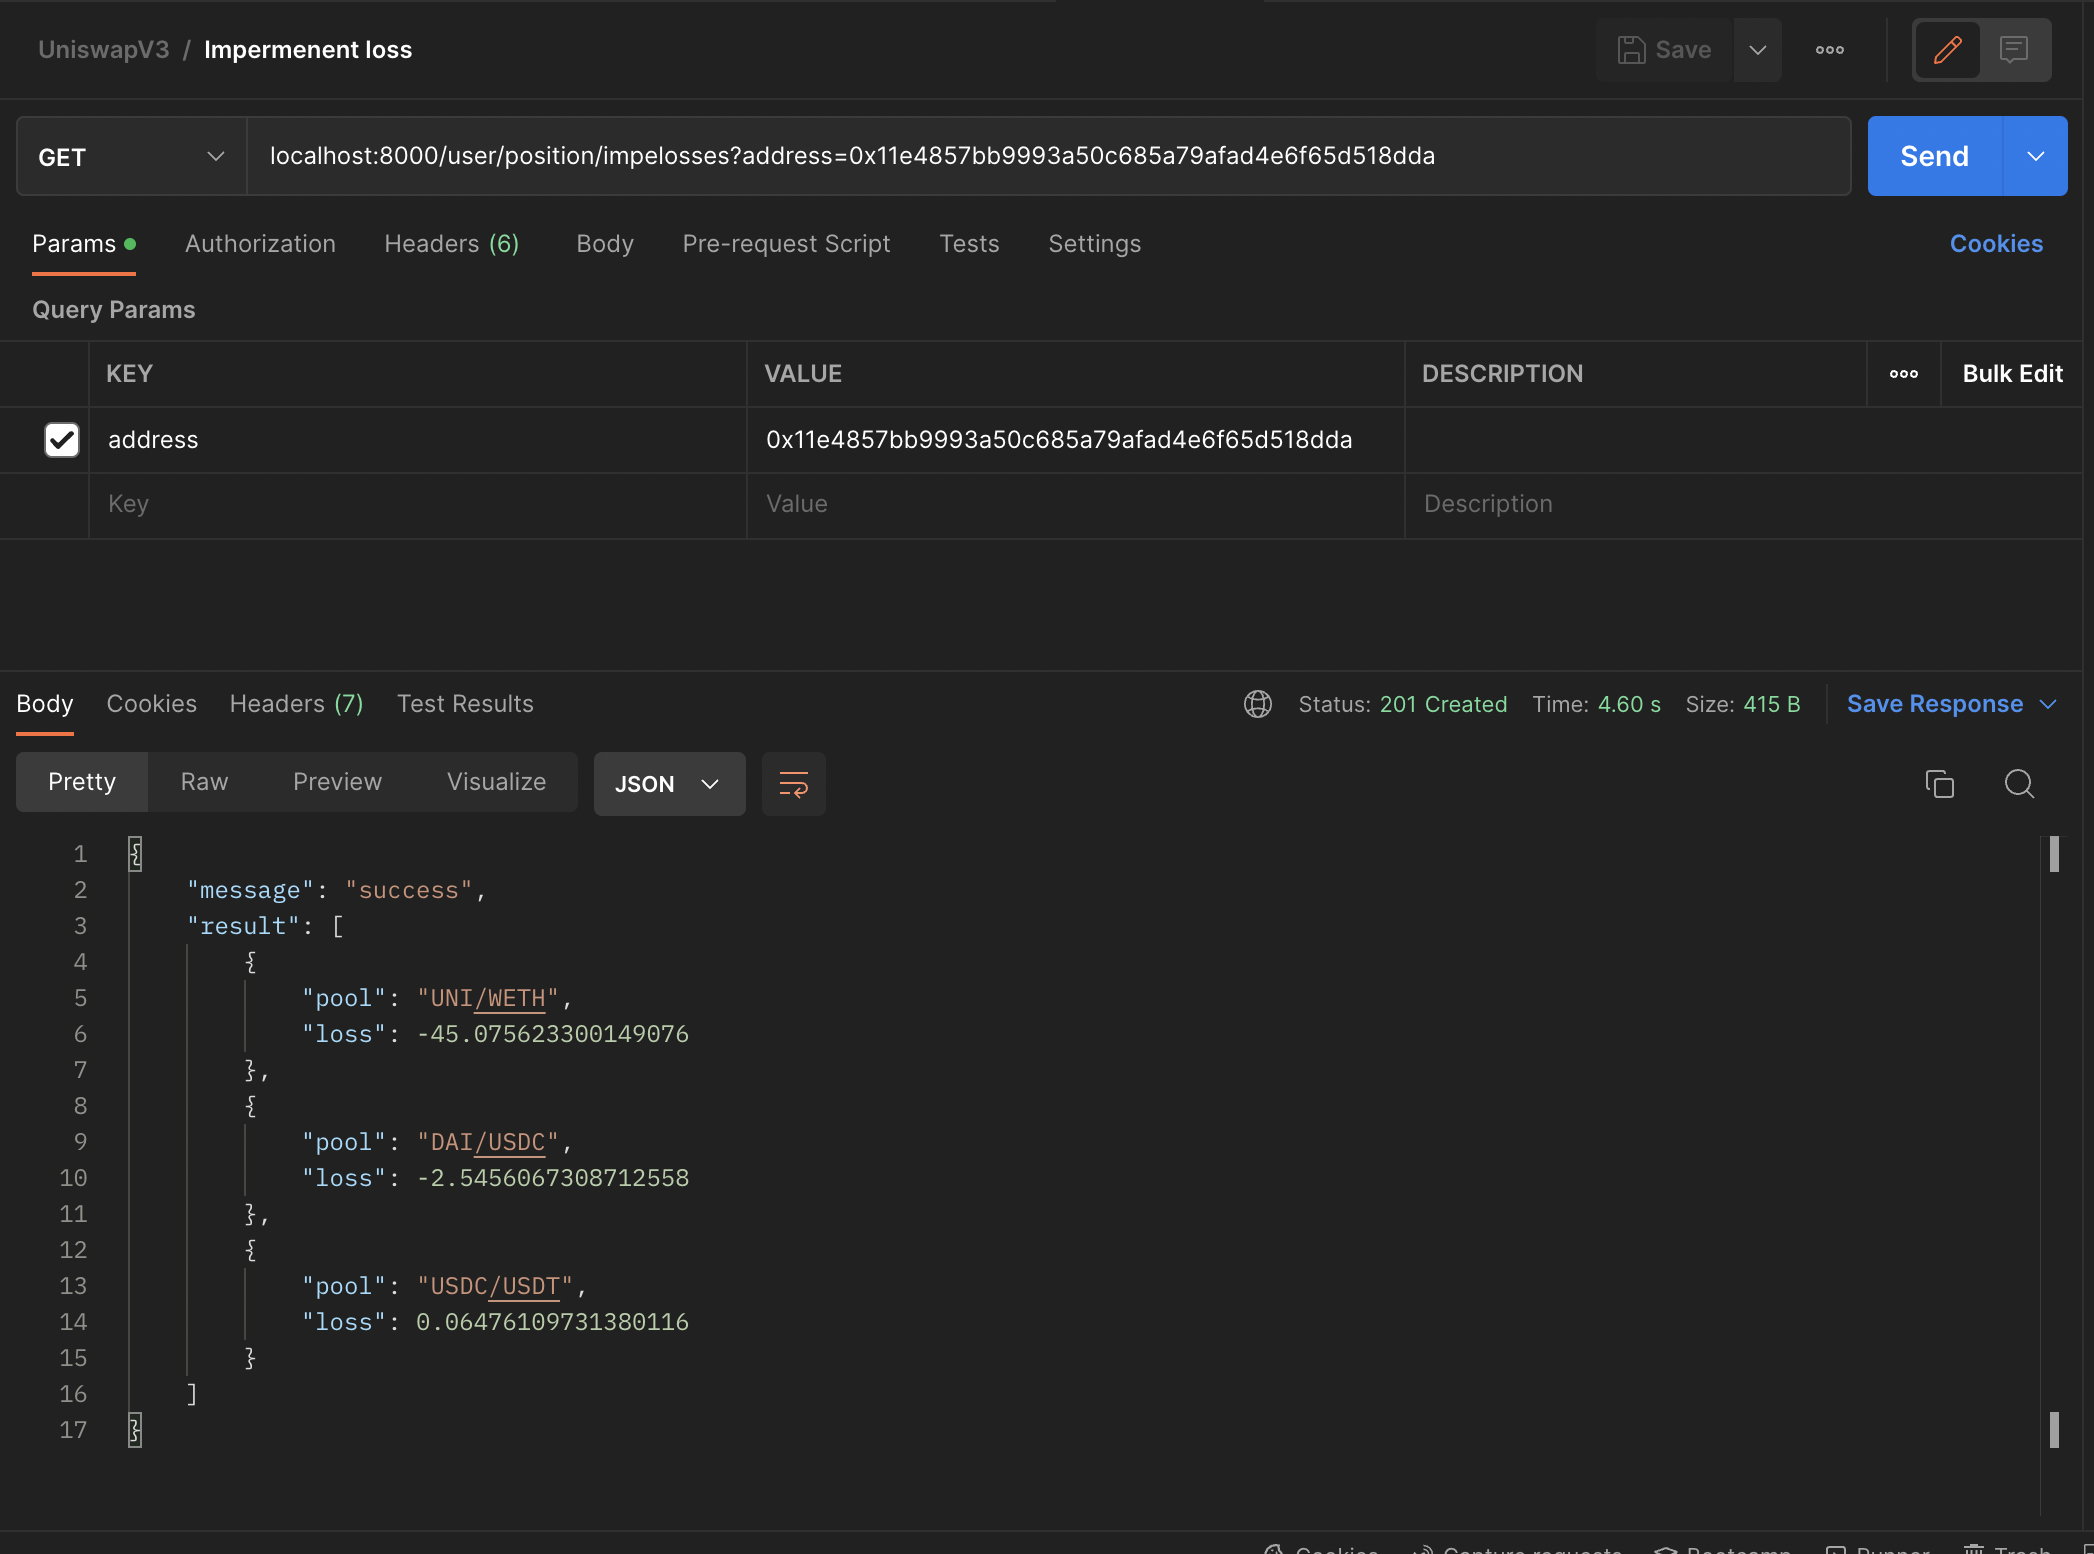
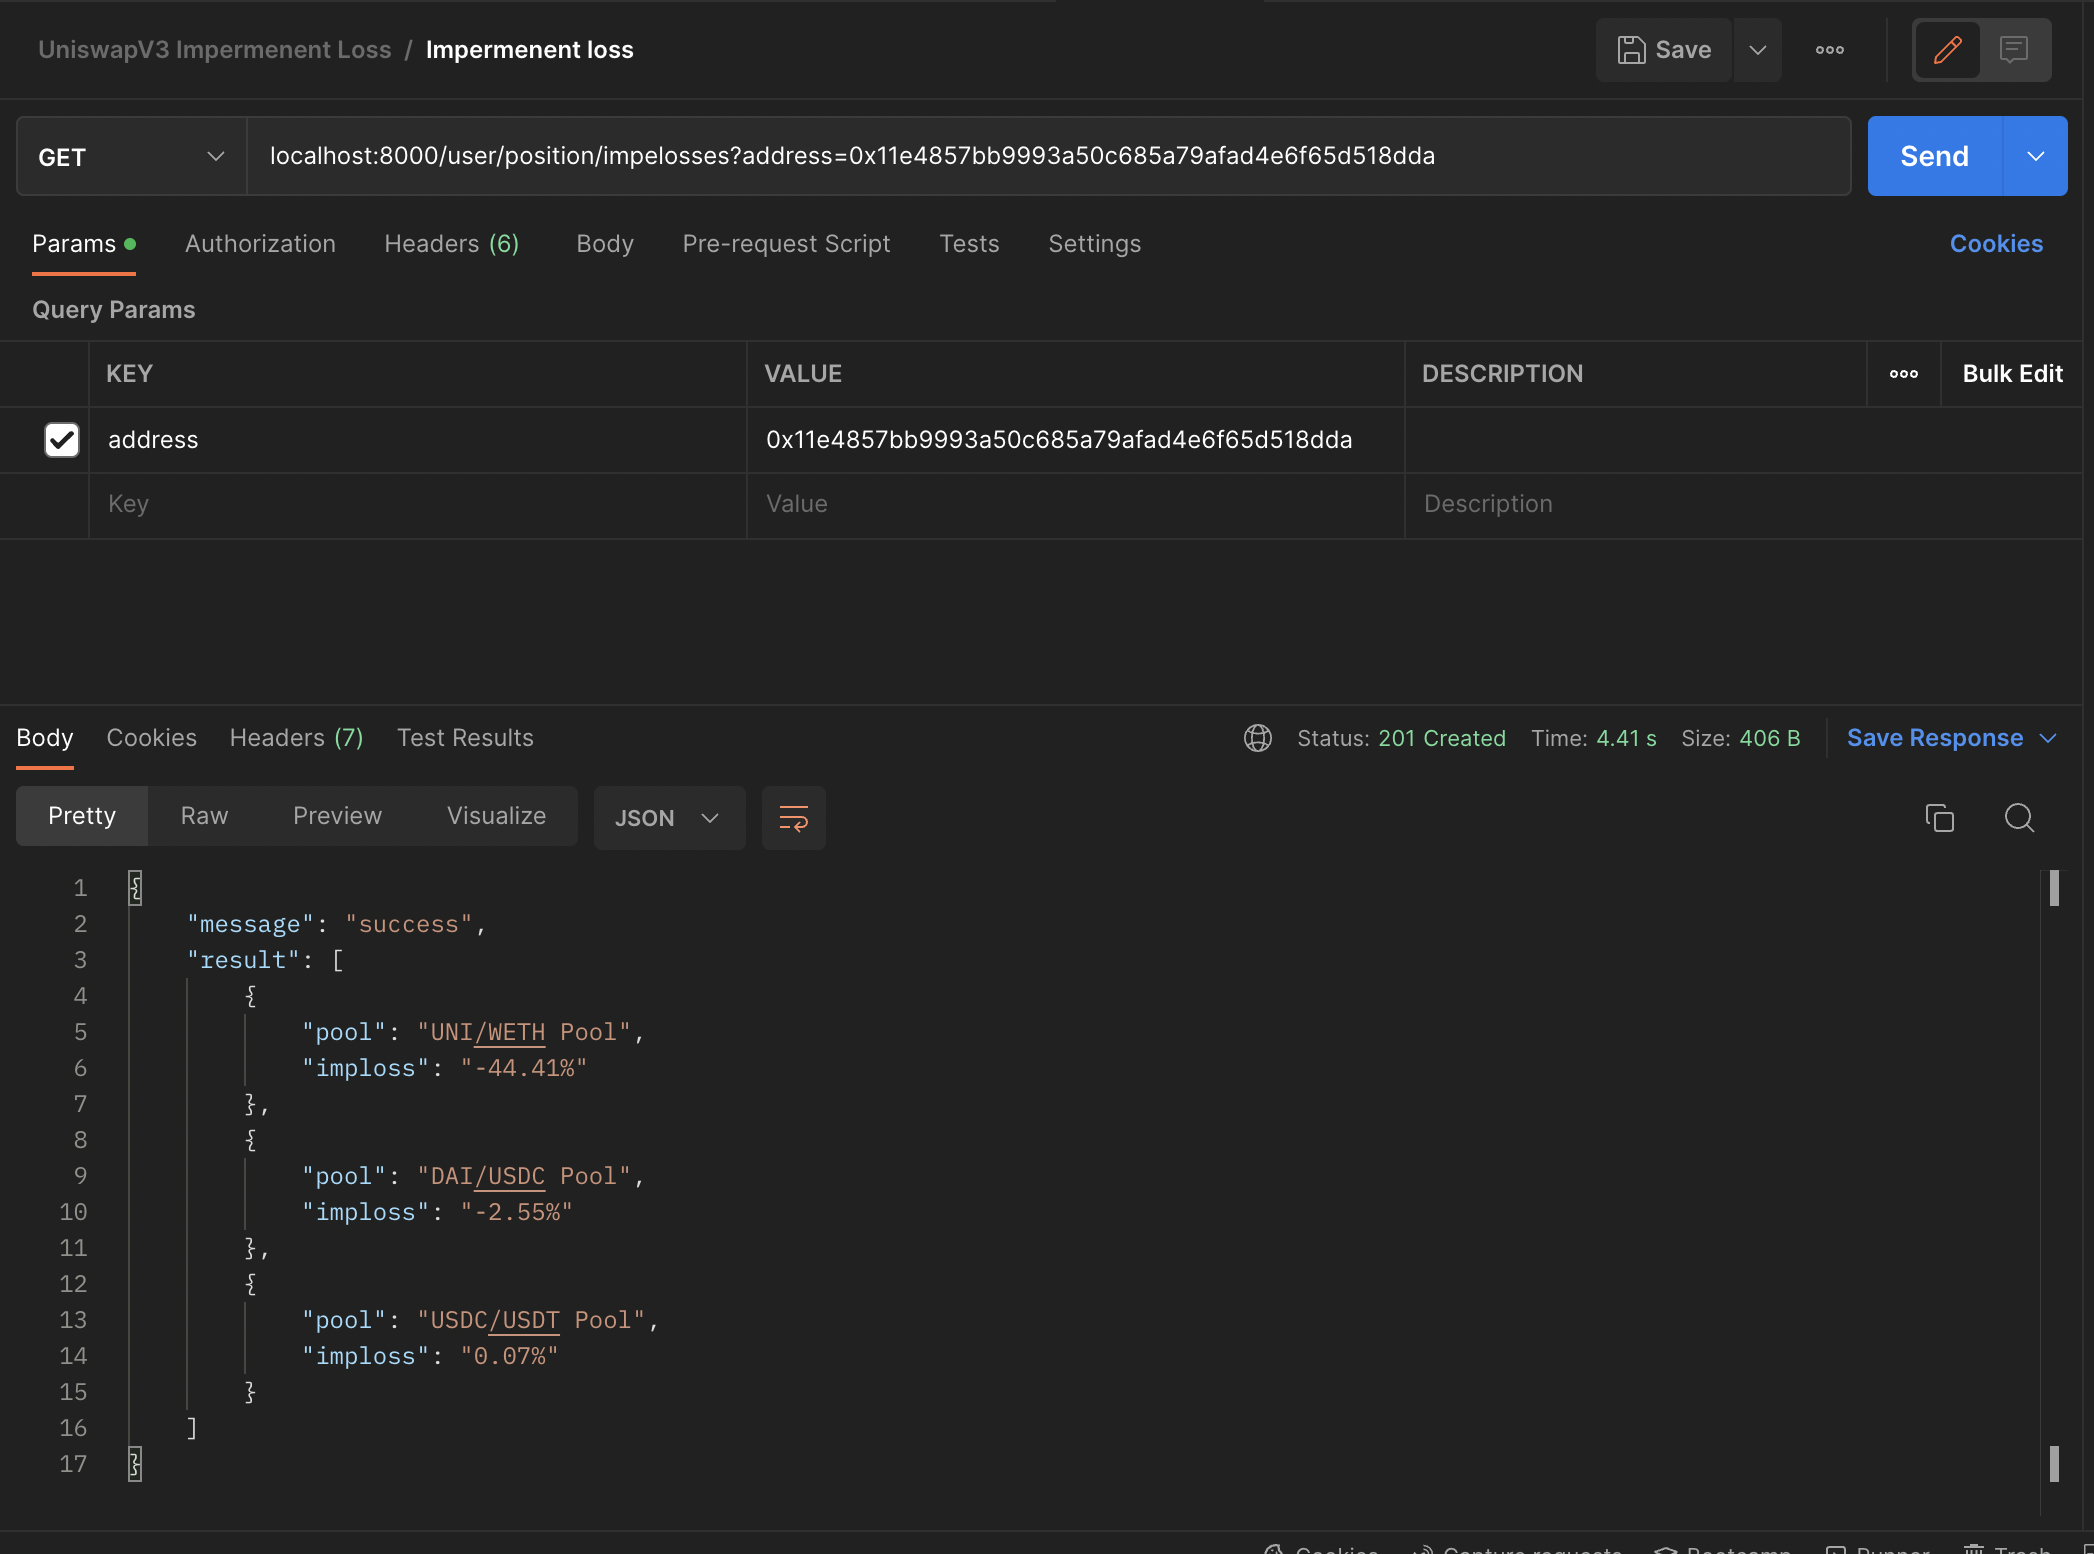
reading

diff --git a/src/utils/positionsHealpers.ts b/src/utils/positionsHealpers.ts
@@ -37,8 +37,8 @@ export default class Positions {
         let impeloss = ((v_withdraw - v_held) / v_held) * 100;
         console.log(impeloss);
         let result: Result = {
-          pool: `${position.token0.symbol}/${position.token1.symbol}`,
-          loss: impeloss,
+          pool: `${position.token0.symbol}/${position.token1.symbol} Pool`,
+          imploss: `${impeloss.toFixed(2)}%`,
         };
 
         results.push(result);
@@ -55,7 +55,7 @@ export default class Positions {
   tickToPrice(tick: number) {
     return TICK_BASE ** tick;
   }
-  // returns current token amounts in pool w
+  // returns current token amounts in pool
   async findCurrentAmount(position: Position): Promise<{ adjestedAmount0: number; adjestedAmount1: number }> {
     let liquidity = parseFloat(position.liquidity);
     let tickerLower = parseFloat(position.tickLower.tickIdx);
@@ -77,20 +77,20 @@ export default class Positions {
     let currentTick = parseFloat(pool.tick);
 
     let currentSqrtPrice = parseFloat(pool.sqrtPrice) / 2 ** 96;
-    let sa = this.tickToPrice(tickerLower / 2);
-    let sb = this.tickToPrice(tickerUpper / 2);
+    let lowerBound = this.tickToPrice(tickerLower / 2);
+    let upperBound = this.tickToPrice(tickerUpper / 2);
     let amount0;
     let amount1;
 
     // pool tokens amounts
     if (tickerUpper <= currentTick) {
       amount0 = 0;
-      amount1 = liquidity * (sb - sa);
+      amount1 = liquidity * (upperBound - lowerBound);
     } else if (tickerLower < currentTick && currentTick < tickerUpper) {
-      amount0 = ((liquidity * (sb - currentSqrtPrice)) / currentSqrtPrice) * sb;
-      amount1 = liquidity * (currentSqrtPrice - sa);
+      amount0 = ((liquidity * (upperBound - currentSqrtPrice)) / currentSqrtPrice) * upperBound;
+      amount1 = liquidity * (currentSqrtPrice - lowerBound);
     } else {
-      amount0 = (liquidity * (sb - sa)) / (sa * sb);
+      amount0 = (liquidity * (upperBound - lowerBound)) / (lowerBound * upperBound);
       amount1 = 0;
     }
 

diff --git a/src/interfaces/positions.ts b/src/interfaces/positions.ts
@@ -17,7 +17,7 @@ export interface Position {
 // -------- Returning result with impermenent loss -----
 export interface Result {
   pool: string;
-  loss: number;
+  imploss: string;
 }
 
 export interface PositionSnapshot {
